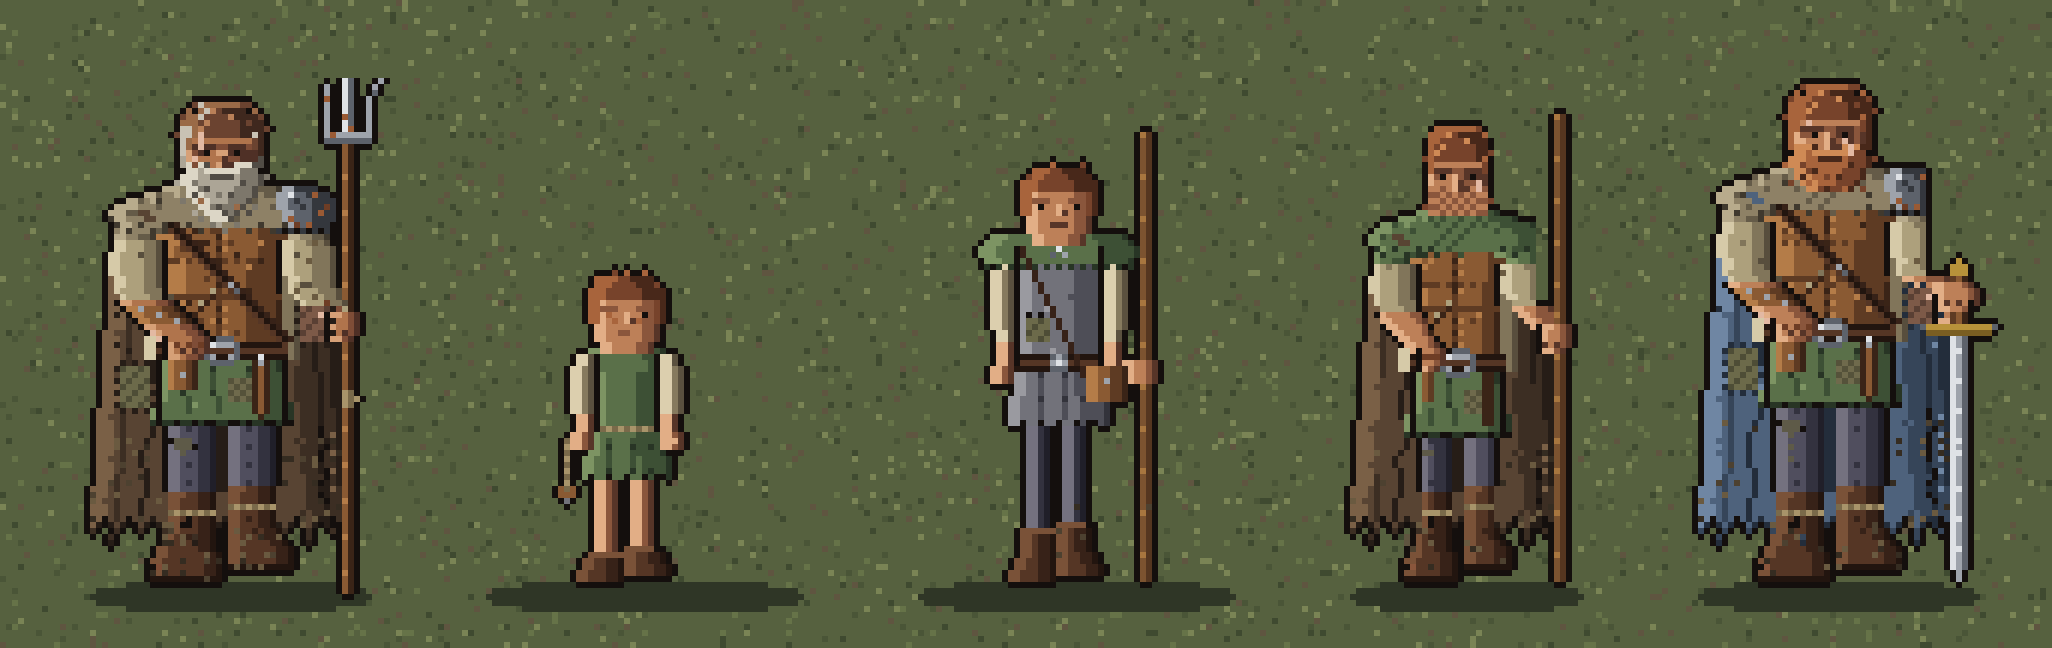
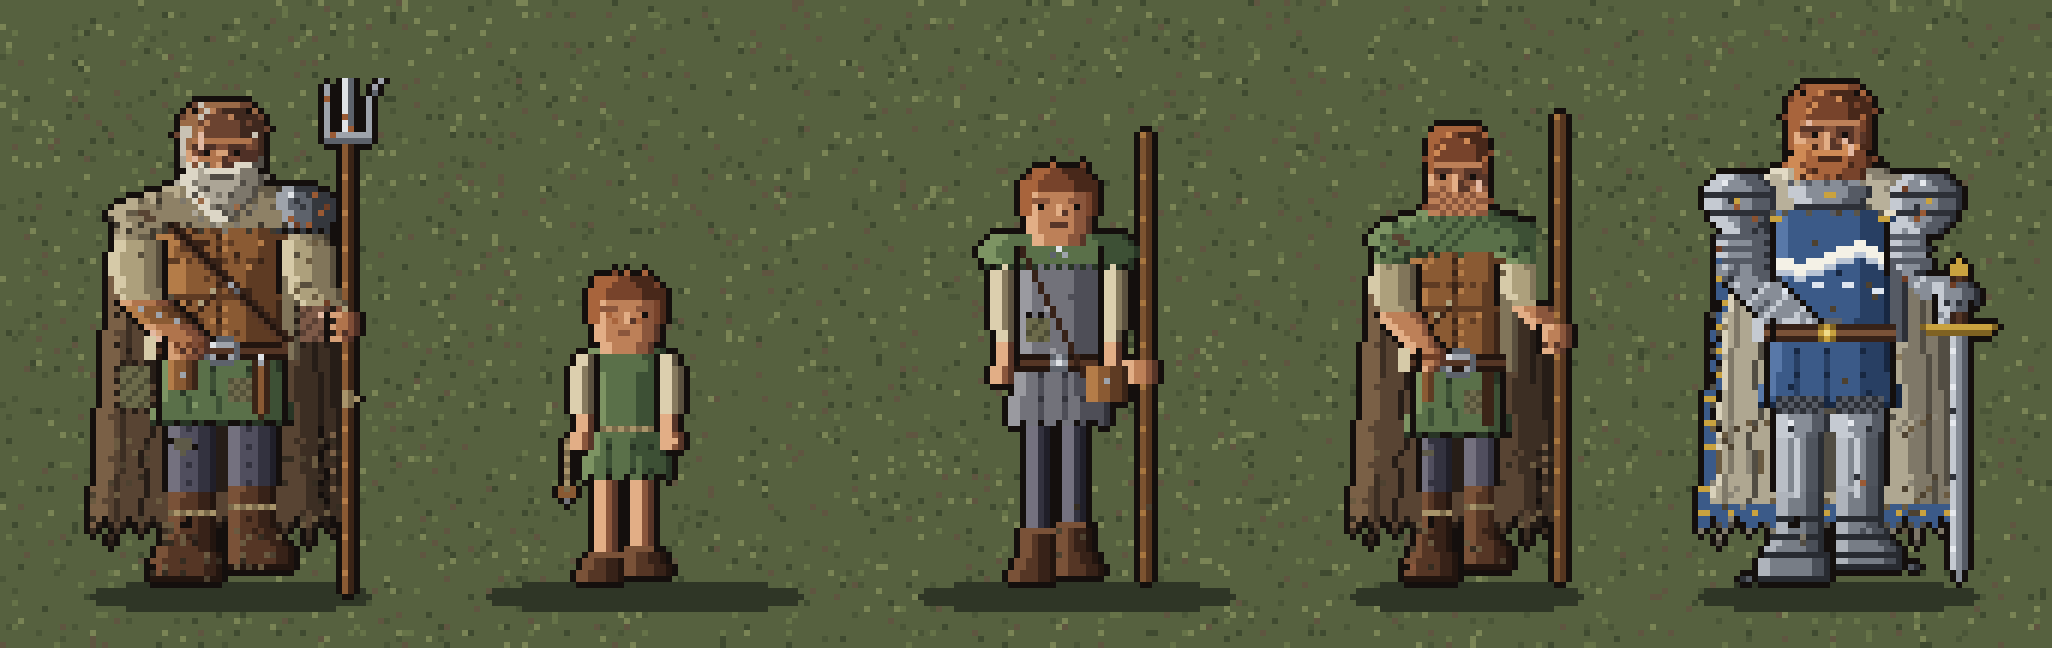
Vesper Road seed: Tobin at 24 is a knight in full plate with his own device
Claude-Session: https://claude.ai/code/session_01H9sNYH9LKZF61giii29DCV

Changed region(s): [[0.8109, 0.2469, 0.9669, 0.9259]]

diff --git a/seeds/vesper-road/art-target/README.md b/seeds/vesper-road/art-target/README.md
@@ -18,8 +18,11 @@ noisy.
 `tobin-ages-6x.png` is the row that matters most to the story: Bram, then Tobin at 11, 15, 19 and 24 on one ground
 line (`tobin-11.png` to `tobin-24.png` are the sprites). At 11 he reaches his father's chest, slight, bare-legged, a
 sling in his hand. At 15 he is all length: a staff taller than he is, an apprentice's cape, a satchel. At 19 he has his
-father's frame but not yet his width or his wear. At 24 he is built like Bram and a little taller, in a blue cloak,
-wearing Bram's pauldron and strap, with Bram's sword point-down under his hand. The 19 and 24 figures were made from
+father's frame but not yet his width or his wear. At 24 he is a knight, built like Bram and a little taller: full plate (layered
+pauldrons, gorget, vambraces and gauntlets, greaves and sabatons, mail at the thigh), a blue surcoat with his own
+device, a white river, a heavy cream cloak edged in blue and gilt, and Bram's sword point-down under his gauntlet.
+The plate is dented and rusting at the edges and the cloak is muddy and cut: a knight who has been on the road, not on
+parade (`tobin-24-beside-reference.png`). The device is this game's own; do not use the reference's cross. The 19 and 24 figures were made from
 Bram's own drawing, which is why the likeness holds; the 11 and 15 figures are simpler drafts and should be redrawn to
 Bram's level of finish.
 
